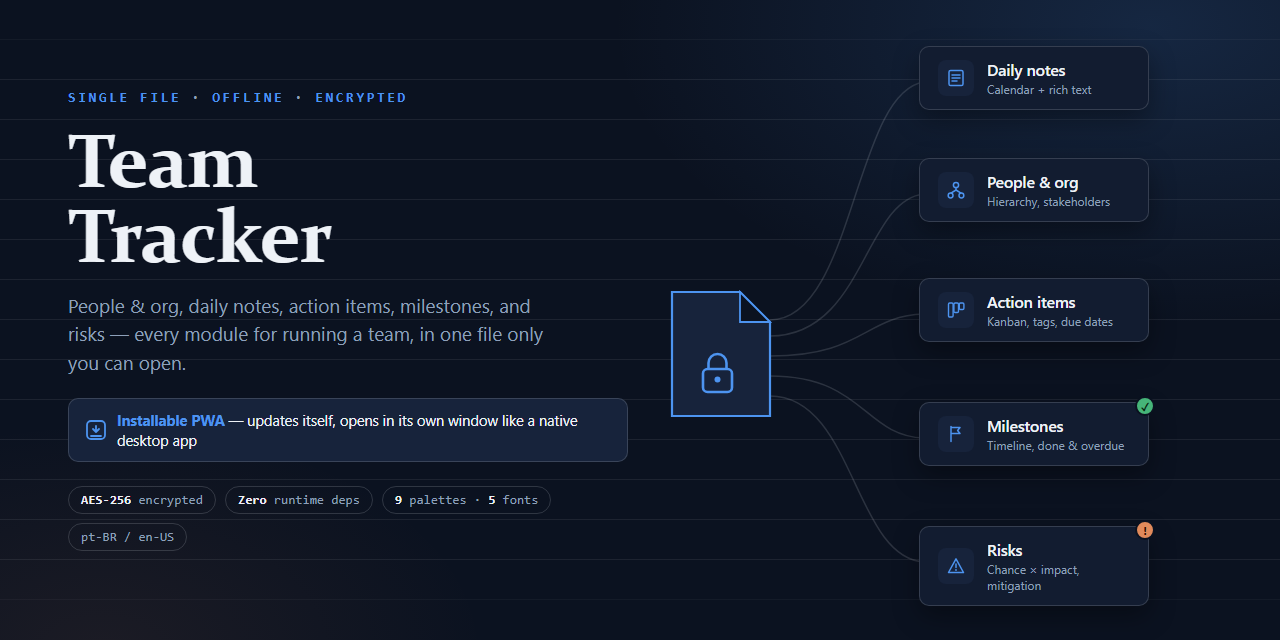
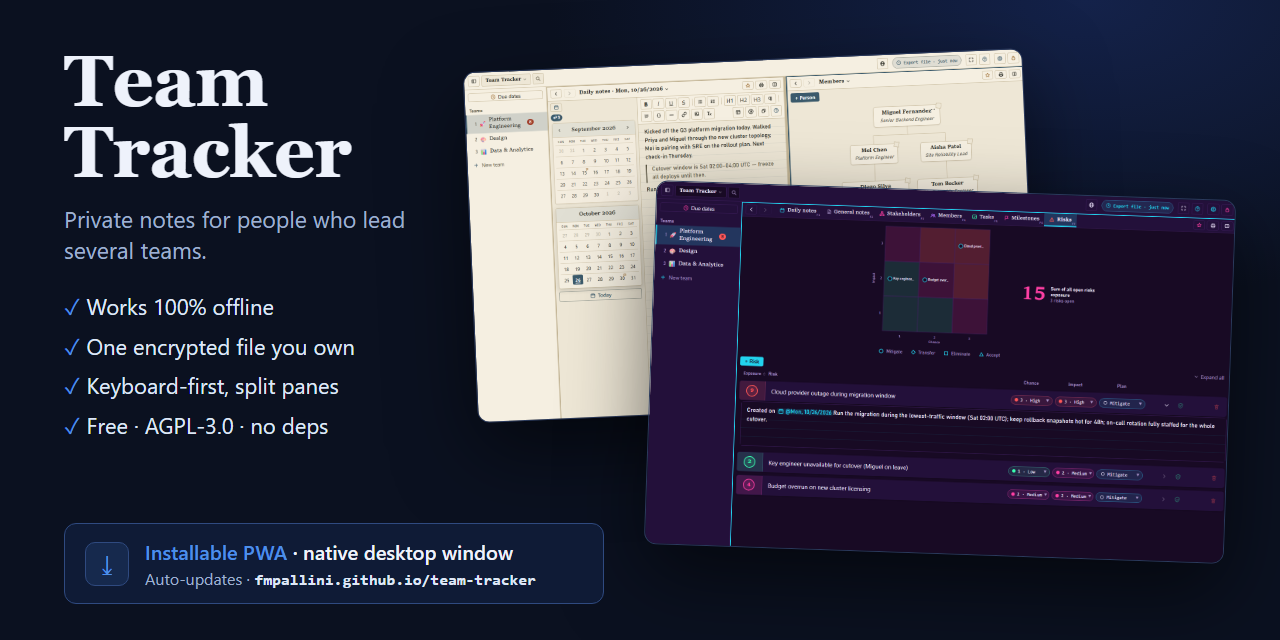
docs: refresh social preview with split-view screenshots and PWA callout
Adds docs/social-preview.html as the source of the 1280x640 PNG.

diff --git a/docs/social-preview.html b/docs/social-preview.html
@@ -1,0 +1,70 @@
+<!doctype html>
+<!-- Source of docs/social-preview.png (1280x640, GitHub social preview).
+     Render: open in Chromium at a 1280x640 viewport and screenshot. -->
+<html lang="en">
+<head>
+<meta charset="utf-8">
+<title>Team Tracker social preview</title>
+<style>
+  html, body { margin: 0; background: #0b1120; }
+  .cv {
+    width: 1280px; height: 640px; position: relative; overflow: hidden;
+    background: radial-gradient(900px 500px at 85% 0%, #14224a 0%, #0b1120 60%);
+    color: #eef2fb; font-family: "Segoe UI", system-ui, sans-serif;
+  }
+  .cv * { box-sizing: border-box; }
+  .copy { position: absolute; left: 64px; top: 46px; width: 380px; }
+  .h1 { font: 700 72px/0.98 Georgia, "Source Serif 4", serif; letter-spacing: -.01em; }
+  .tag { color: #9fb0cf; margin: 16px 0 22px; font-size: 23px; }
+  ul { list-style: none; margin: 0; padding: 0; font-size: 22px; line-height: 1.8; color: #dfe7f7; }
+  li::before { content: "✓"; color: #4d8fe8; margin-right: 6px; }
+  .win {
+    position: absolute; width: 560px; height: 400px; overflow: hidden;
+    border-radius: 12px; border: 1px solid #2b3a5c; box-shadow: 0 30px 80px rgba(0,0,0,.55);
+  }
+  .win img { display: block; width: 1500px; height: 940px; transform-origin: 0 0; }
+  .pwa {
+    position: absolute; left: 64px; bottom: 36px; width: 540px; padding: 14px 20px;
+    border: 1px solid #2f4a80; border-radius: 12px; background: #101c38ee;
+    display: flex; gap: 16px; align-items: center;
+  }
+  .pwa .ic {
+    width: 44px; height: 44px; border-radius: 10px; background: #16294d; border: 1px solid #2f4a80;
+    display: flex; align-items: center; justify-content: center; font-size: 24px; color: #4d8fe8; flex: none;
+  }
+  .pwa b { font-size: 20px; font-weight: 600; }
+  .pwa b span { color: #4d8fe8; }
+  .pwa p { margin: 3px 0 0; font-size: 16px; color: #9fb0cf; }
+  .pwa code { font: 600 16px Consolas, monospace; color: #dfe7f7; }
+</style>
+</head>
+<body>
+<div class="cv">
+  <div class="copy">
+    <div class="h1">Team<br>Tracker</div>
+    <div class="tag">Private notes for people who lead several teams.</div>
+    <ul>
+      <li>Works 100% offline</li>
+      <li>One encrypted file you own</li>
+      <li>Keyboard-first, split panes</li>
+      <li>Free · AGPL-3.0 · no deps</li>
+    </ul>
+  </div>
+
+  <div class="win" style="left:470px;top:60px;height:351px;transform:rotate(-2.5deg)">
+    <img src="screenshots/daily-notes-and-org.png" alt="" style="transform:scale(.373)">
+  </div>
+  <div class="win" style="left:650px;top:190px;width:580px;height:364px;transform:rotate(2deg)">
+    <img src="screenshots/risks.png" alt="" style="transform:scale(.387)">
+  </div>
+
+  <div class="pwa">
+    <div class="ic">⤓</div>
+    <div>
+      <b><span>Installable PWA</span> · native desktop window</b>
+      <p>Auto-updates · <code>fmpallini.github.io/team-tracker</code></p>
+    </div>
+  </div>
+</div>
+</body>
+</html>
